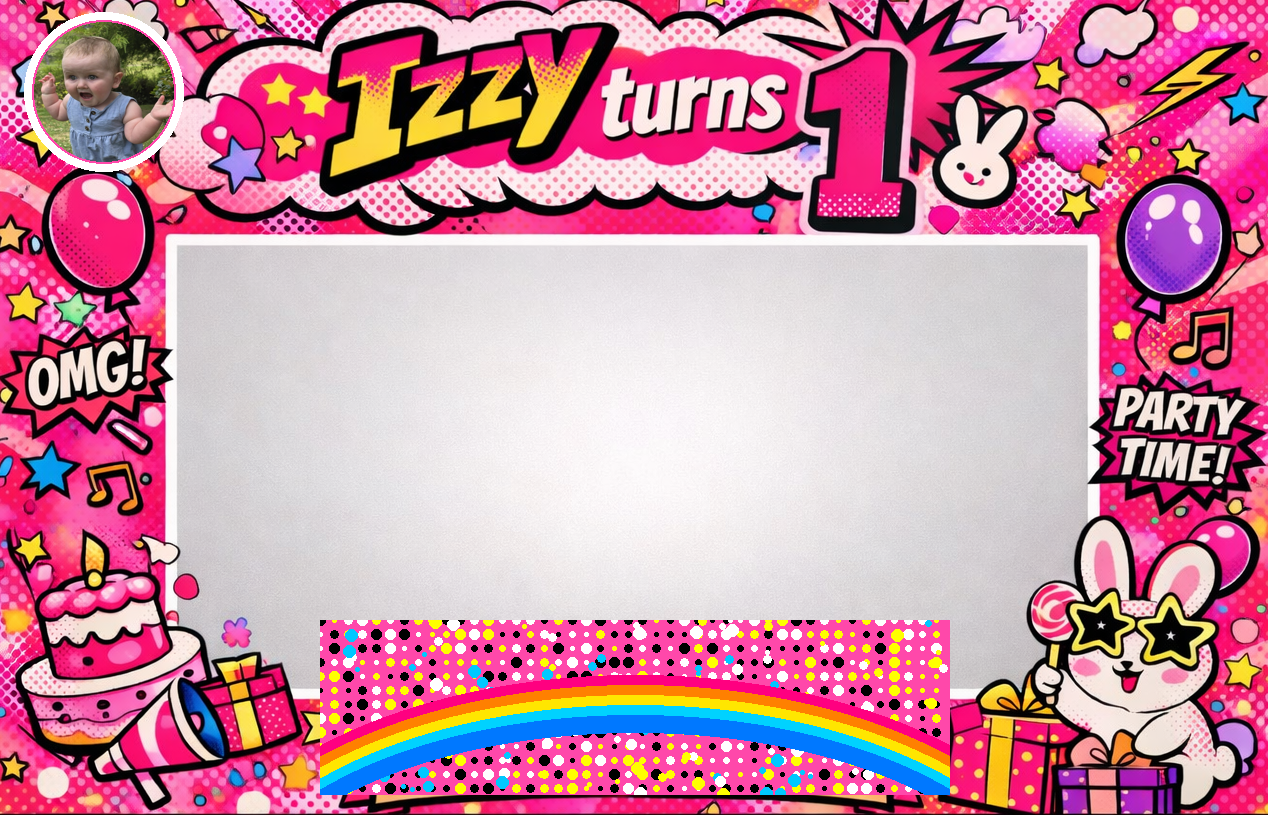
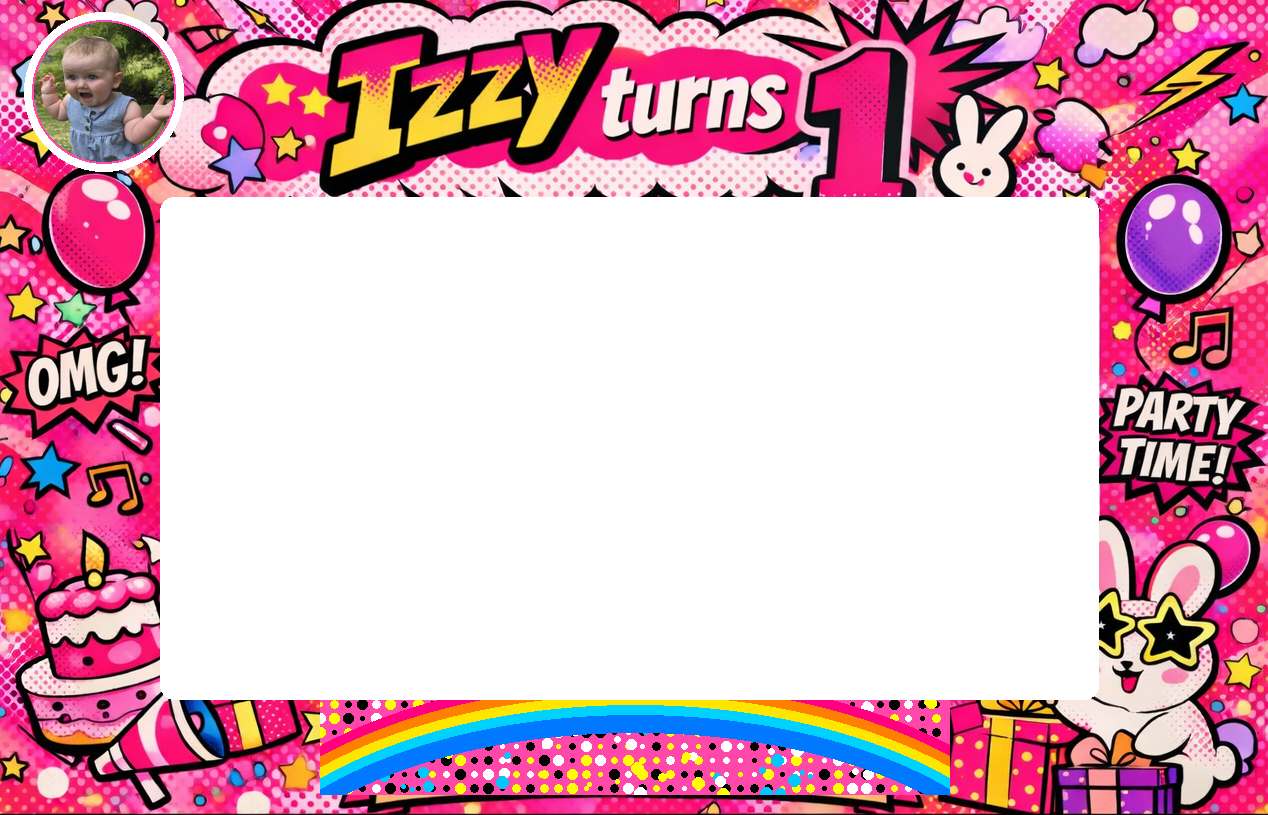
Add files via upload

diff --git a/styles.css b/styles.css
@@ -16,6 +16,7 @@ html,body{ height:100%; margin:0; background:#000; overflow:hidden; font-family:
 }
 #stage{
   position:absolute;
+  z-index:2;
   border-radius: var(--stage-radius);
   overflow:hidden;
   position:relative;
@@ -23,6 +24,7 @@ html,body{ height:100%; margin:0; background:#000; overflow:hidden; font-family:
   border: var(--stage-border) solid rgba(255,255,255,.75);
 }
 #bg{
+  z-index:0;
   position:absolute; inset:0;
   background-position:center;
   background-size: cover;
@@ -31,6 +33,7 @@ html,body{ height:100%; margin:0; background:#000; overflow:hidden; font-family:
   opacity:.85;
 }
 #photo{
+  z-index:1;
   position:absolute; inset:0;
   width:100%; height:100%;
   object-fit: contain;
@@ -101,6 +104,7 @@ button{ border:0; border-radius: 12px; padding: 10px 14px; cursor:pointer; font-
 .help ol{ margin: 8px 0 0 18px; }
 
 #frameArt{
+  z-index: 3;
   position:absolute; inset:0;
   width:100%; height:100%;
   object-fit: contain;

diff --git a/sw.js b/sw.js
@@ -1,4 +1,4 @@
-const CACHE_NAME = "izzy-frame-v3";
+const CACHE_NAME = "izzy-frame-v4";
 const APP_SHELL = [
   "./",
   "./index.html",
